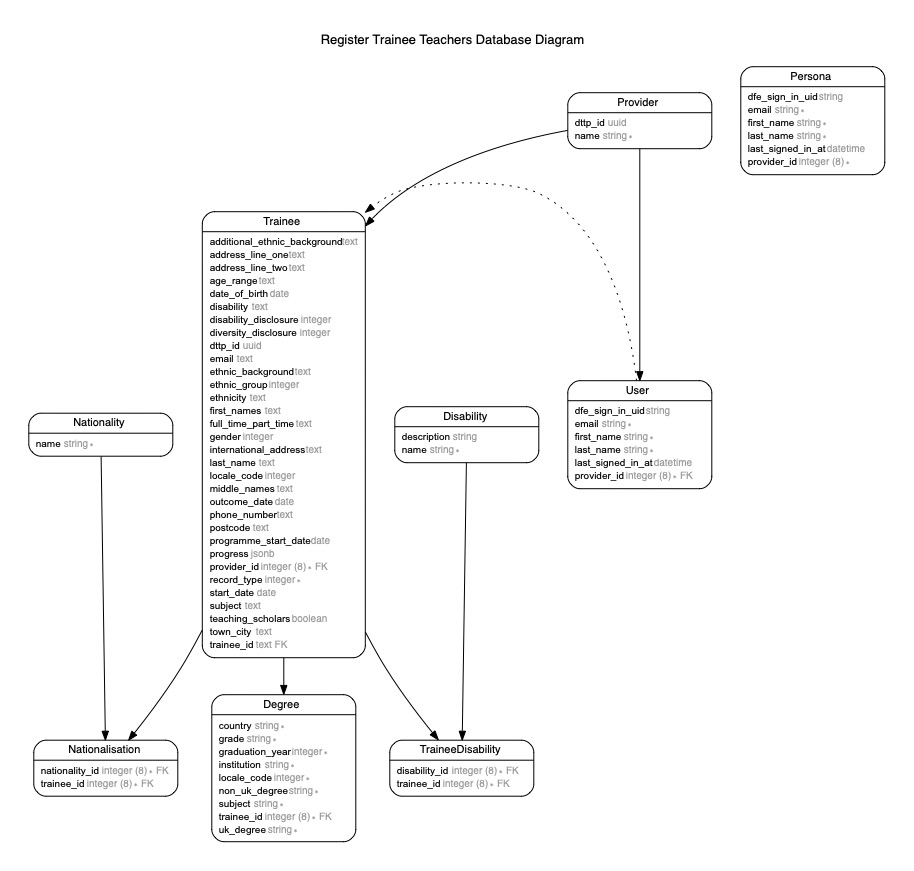
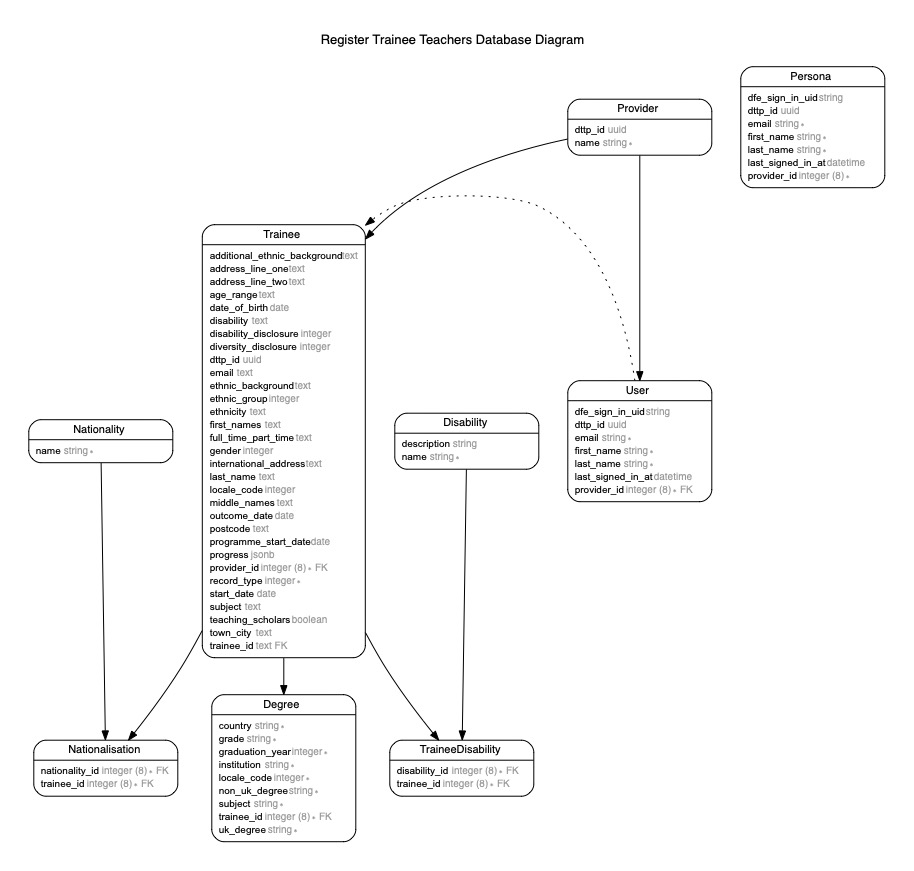
[607] Record the user who created the trainee in DTTP

diff --git a/spec/presenters/dttp/trainee_presenter_spec.rb b/spec/presenters/dttp/trainee_presenter_spec.rb
@@ -4,6 +4,8 @@ require "rails_helper"
 
 module Dttp
   describe TraineePresenter do
+    let(:trainee_creator_dttp_id) { SecureRandom.uuid }
+
     subject { described_class.new(trainee: trainee) }
 
     describe "#placement_assignment_params" do
@@ -71,7 +73,7 @@ module Dttp
 
       context "basic information" do
         it "returns a hash with all the DTTP basic contact fields" do
-          expect(subject.contact_params).to include({
+          expect(subject.contact_params(trainee_creator_dttp_id)).to include({
             "firstname" => trainee.first_names,
             "lastname" => trainee.last_name,
             "address1_line1" => trainee.address_line_one,
@@ -81,6 +83,7 @@ module Dttp
             "birthdate" => trainee.date_of_birth.to_s,
             "emailaddress1" => trainee.email,
             "gendercode" => 1,
+            "dfe_CreatedById@odata.bind" => "/contacts(#{trainee_creator_dttp_id})",
             "parentcustomerid_account@odata.bind" => "/accounts(#{trainee.provider.dttp_id})",
           })
         end
@@ -104,7 +107,7 @@ module Dttp
           let(:dttp_disability) { Diversities::NOT_PROVIDED }
 
           it "returns a hash with a foreign key matching DTTP's 'Not known' ethnicity entity" do
-            expect(subject.contact_params).to include(disability_param, ethnicity_param)
+            expect(subject.contact_params(trainee_creator_dttp_id)).to include(disability_param, ethnicity_param)
           end
         end
 
@@ -116,7 +119,7 @@ module Dttp
               let(:ethnic_background) { Diversities::IRISH }
 
               it "returns a hash with a foreign key of DTTP's 'Irish' ethnicity entity" do
-                expect(subject.contact_params).to include(ethnicity_param)
+                expect(subject.contact_params(trainee_creator_dttp_id)).to include(ethnicity_param)
               end
             end
 
@@ -124,7 +127,7 @@ module Dttp
               let(:ethnic_background) { Diversities::NOT_PROVIDED }
 
               it "returns a hash with a foreign of DTTP's 'Not known' ethnicity entity" do
-                expect(subject.contact_params).to include(ethnicity_param)
+                expect(subject.contact_params(trainee_creator_dttp_id)).to include(ethnicity_param)
               end
             end
           end
@@ -143,7 +146,7 @@ module Dttp
                 end
 
                 it "returns a hash with a foreign key of DTTP's 'Blind' disability entity" do
-                  expect(subject.contact_params).to include(disability_param)
+                  expect(subject.contact_params(trainee_creator_dttp_id)).to include(disability_param)
                 end
               end
 
@@ -155,7 +158,7 @@ module Dttp
                 end
 
                 it "returns a hash with a foreign key of DTTP's 'Multiple disabilities' entity" do
-                  expect(subject.contact_params).to include(disability_param)
+                  expect(subject.contact_params(trainee_creator_dttp_id)).to include(disability_param)
                 end
               end
             end
@@ -165,7 +168,7 @@ module Dttp
               let(:dttp_disability) { Diversities::NO_KNOWN_DISABILITY }
 
               it "returns a hash with a foreign key of DTTP's 'No known disability' entity" do
-                expect(subject.contact_params).to include(disability_param)
+                expect(subject.contact_params(trainee_creator_dttp_id)).to include(disability_param)
               end
             end
 
@@ -174,7 +177,7 @@ module Dttp
               let(:dttp_disability) { Diversities::NOT_PROVIDED }
 
               it "returns a hash with a foreign key of DTTP's 'Not known' entity" do
-                expect(subject.contact_params).to include(disability_param)
+                expect(subject.contact_params(trainee_creator_dttp_id)).to include(disability_param)
               end
             end
           end

diff --git a/spec/services/dttp/batch_create_spec.rb b/spec/services/dttp/batch_create_spec.rb
@@ -8,8 +8,11 @@ module Dttp
       let(:trainee) { create(:trainee, :with_programme_details) }
       let(:trainee_presenter) { TraineePresenter.new(trainee: trainee) }
       let(:batch_request) { instance_double(BatchRequest) }
+      let(:trainee_creator_dttp_id) { SecureRandom.uuid }
       let(:contact_change_set_id) { SecureRandom.uuid }
       let(:contact_entity_id) { SecureRandom.uuid }
+      let(:contact_payload) { trainee_presenter.contact_params(trainee_creator_dttp_id).to_json }
+      let(:placement_assignment_payload) { trainee_presenter.placement_assignment_params(contact_change_set_id).to_json }
 
       before do
         allow(AccessToken).to receive(:fetch).and_return("token")
@@ -19,18 +22,18 @@ module Dttp
 
       it "submits a batch request to create contact and placement assignment entities and updates trainee record" do
         expect(batch_request).to receive(:add_change_set).with(entity: "contacts",
-                                                               payload: trainee_presenter.contact_params.to_json).and_return(
+                                                               payload: contact_payload).and_return(
                                                                  contact_change_set_id,
                                                                )
 
         expect(batch_request).to receive(:add_change_set).with(entity: "dfe_placementassignments",
-                                                               payload: trainee_presenter.placement_assignment_params(
-                                                                 contact_change_set_id,
-                                                               ).to_json)
+                                                               payload: placement_assignment_payload)
 
         expect(batch_request).to receive(:submit).and_return("/contacts(#{contact_entity_id})")
 
-        expect { described_class.call(trainee: trainee) }.to change(trainee, :dttp_id)
+        expect {
+          described_class.call(trainee: trainee, trainee_creator_dttp_id: trainee_creator_dttp_id)
+        }.to change(trainee, :dttp_id)
       end
     end
   end

diff --git a/app/services/dttp/batch_create.rb b/app/services/dttp/batch_create.rb
@@ -4,19 +4,20 @@ module Dttp
   class BatchCreate
     include ServicePattern
 
-    attr_reader :trainee, :batch_request
+    attr_reader :trainee, :trainee_creator_dttp_id, :batch_request
 
-    def initialize(trainee:)
+    def initialize(trainee:, trainee_creator_dttp_id:)
       @trainee = Dttp::TraineePresenter.new(trainee: trainee)
+      @trainee_creator_dttp_id = trainee_creator_dttp_id
       @batch_request = BatchRequest.new
     end
 
     def call
-      contact_change_set_id = batch_request.add_change_set(entity: "contacts",
-                                                           payload: trainee.contact_params.to_json)
+      contact_payload = trainee.contact_params(trainee_creator_dttp_id).to_json
+      contact_change_set_id = batch_request.add_change_set(entity: "contacts", payload: contact_payload)
 
-      batch_request.add_change_set(entity: "dfe_placementassignments",
-                                   payload: trainee.placement_assignment_params(contact_change_set_id).to_json)
+      placement_assignment_payload = trainee.placement_assignment_params(contact_change_set_id).to_json
+      batch_request.add_change_set(entity: "dfe_placementassignments", payload: placement_assignment_payload)
 
       batch_response = batch_request.submit
 

diff --git a/spec/controllers/trn_submissions_controller_spec.rb b/spec/controllers/trn_submissions_controller_spec.rb
@@ -7,18 +7,18 @@ describe TrnSubmissionsController do
 
   describe "#create" do
     let(:trainee) { create(:trainee) }
-    let(:user) { build(:user) }
+    let(:current_user) { build(:user) }
     let(:trainee_policy) { instance_double(TraineePolicy, create?: true) }
 
     before do
-      allow(controller).to receive(:current_user).and_return(user)
-      allow(TraineePolicy).to receive(:new).with(user, trainee).and_return(trainee_policy)
+      allow(controller).to receive(:current_user).and_return(current_user)
+      allow(TraineePolicy).to receive(:new).with(current_user, trainee).and_return(trainee_policy)
     end
 
     it "launches CreateJob" do
       expect {
         post :create, params: { trainee_id: trainee.id }
-      }.to have_enqueued_job(Dttp::CreateJob).with(trainee.id)
+      }.to have_enqueued_job(Dttp::CreateJob).with(trainee.id, current_user.dttp_id)
     end
   end
 end

diff --git a/app/presenters/dttp/trainee_presenter.rb b/app/presenters/dttp/trainee_presenter.rb
@@ -7,13 +7,13 @@ module Dttp
 
     delegate_missing_to :trainee
 
-    attr_reader :trainee
+    attr_reader :trainee, :user
 
     def initialize(trainee:)
       @trainee = trainee
     end
 
-    def contact_params
+    def contact_params(trainee_creator_dttp_id)
       {
         "firstname" => first_names,
         "lastname" => last_name,
@@ -27,6 +27,7 @@ module Dttp
         "dfe_EthnicityId@odata.bind" => "/dfe_ethnicities(#{dttp_ethnicity_id})",
         "dfe_DisibilityId@odata.bind" => "/dfe_disabilities(#{dttp_disability_id})",
         "parentcustomerid_account@odata.bind" => "/accounts(#{provider.dttp_id})",
+        "dfe_CreatedById@odata.bind" => "/contacts(#{trainee_creator_dttp_id})",
       }
     end
 

diff --git a/app/jobs/dttp/create_job.rb b/app/jobs/dttp/create_job.rb
@@ -5,8 +5,8 @@ module Dttp
     queue_as :default
     retry_on Dttp::BatchRequest::Error
 
-    def perform(trainee_id)
-      Dttp::BatchCreate.call(trainee: Trainee.find(trainee_id))
+    def perform(trainee_id, trainee_creator_dttp_id)
+      Dttp::BatchCreate.call(trainee: Trainee.find(trainee_id), trainee_creator_dttp_id: trainee_creator_dttp_id)
     end
   end
 end

diff --git a/app/controllers/trn_submissions_controller.rb b/app/controllers/trn_submissions_controller.rb
@@ -4,7 +4,7 @@ class TrnSubmissionsController < ApplicationController
   before_action :authorize_trainee
 
   def create
-    Dttp::CreateJob.perform_later(trainee.id)
+    Dttp::CreateJob.perform_later(trainee.id, current_user.dttp_id)
 
     redirect_to trn_submission_path(trainee_id: trainee.id)
   end

diff --git a/spec/factories/users.rb b/spec/factories/users.rb
@@ -6,6 +6,7 @@ FactoryBot.define do
     first_name { Faker::Name.first_name }
     last_name { Faker::Name.last_name }
     email { Faker::Internet.email }
+    dttp_id { SecureRandom.uuid }
 
     provider
   end
